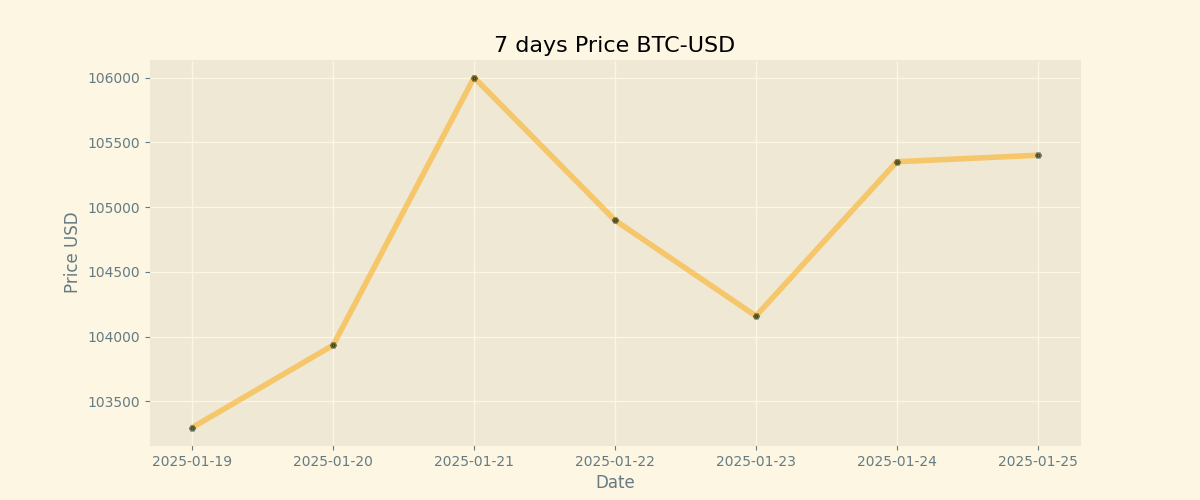
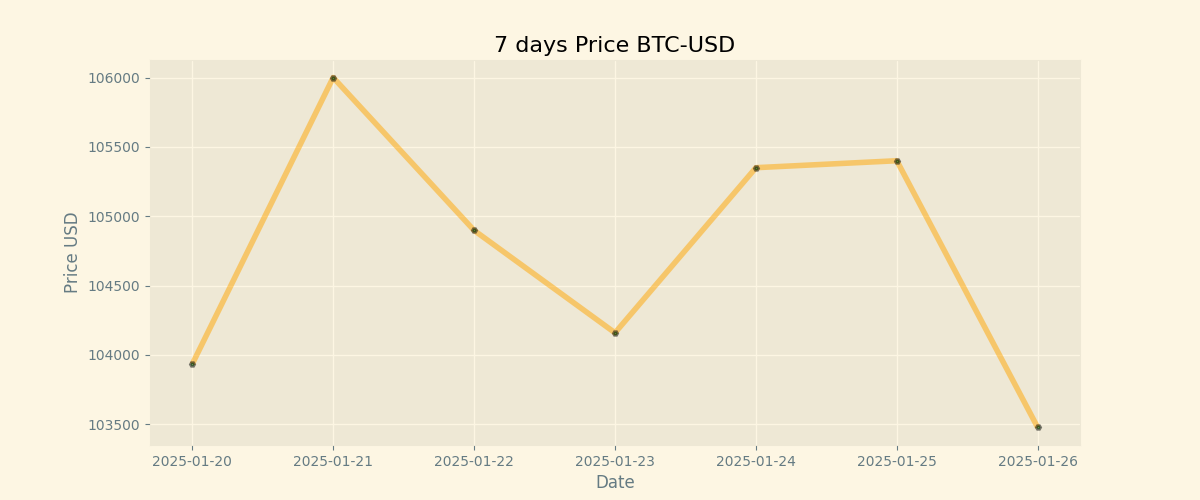
Duty Updates 2025-01-26

diff --git a/README.md b/README.md
@@ -9,8 +9,8 @@
 
 | Currency | Price           |
 | -------- | --------------- |
-| **BTC**  | **$ 105400.0** |
-| **ETH**  | **$ 3399.0** |
+| **BTC**  | **$ 103476.97** |
+| **ETH**  | **$ 3400.0** |
 
 ## BTC chart
 
